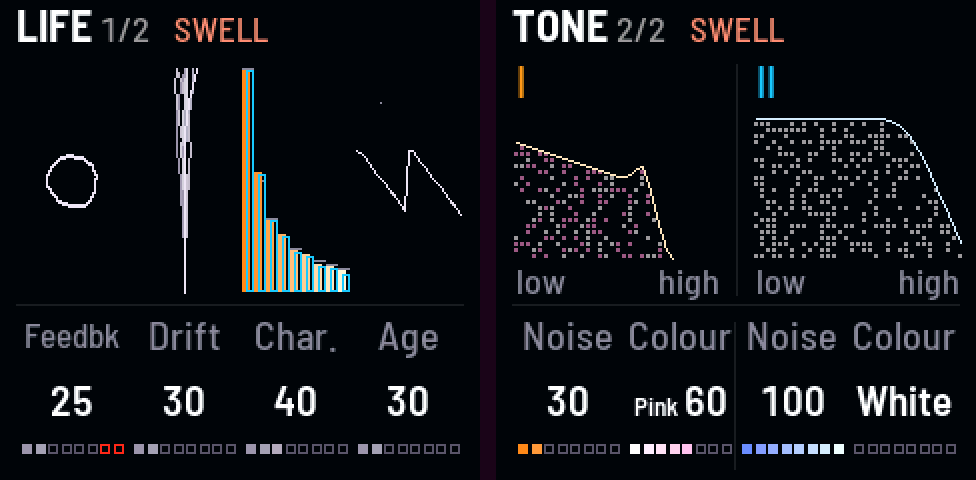
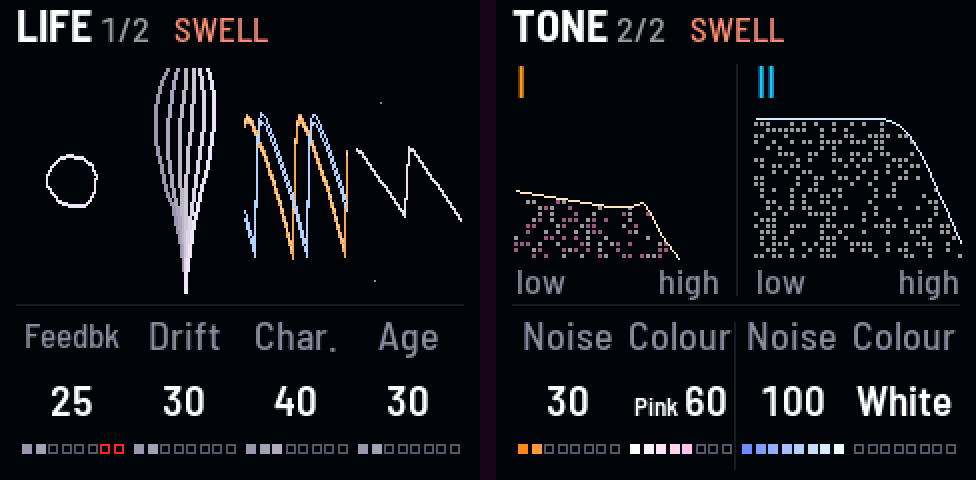
Life: Drift six thicker strands, Character ruler to hand, Age worn harder; Tone's noise as tall as it sounds
- Drift's flame: six 2 px strands, 4 px apart, swaying as one bundle (was nine 1 px strands)
- Character: each drone's wave, a crisp thin line at 0, a thick, soft, trembling stroke at 100 (drone I filled and
  glowing, drone II outlined in its ramp), in place of the harmonic bars
- Age: the worn saw rounds more, its wow drawn twice as far, dimming as it darkens
- Tone: the snow's height follows how loud the noise sounds (twice as tall a 10 dB), so 10 is a quarter up, not 58 %

diff --git a/firmware/src/app/look.c b/firmware/src/app/look.c
@@ -567,87 +567,118 @@ static void lk_life_fb(int32_t cx, int32_t cy)
     }
 }
 
-/* DRIFT: a flame, nine strands from one root, swaying unevenly, more towards the tip; as far as Drift lets it, its
- * motion from the clock (never a rhythm). At 0 one still line */
+/* DRIFT: a flame, six 2 px strands from one root, 4 px apart in the middle (the fan opening over Drift's first 15),
+ * swaying as one bundle, more towards the tip, as far as Drift lets it; its motion from the clock (never a rhythm).
+ * At 0 one still line */
 static void lk_life_drift(int32_t cx, int32_t top, int32_t bot)
 {
     const float d = (float)proj.par[P_DRIFT] * 0.01f, t = (float)plat_ms() * 0.001f;
+    const float fan = fm_minf(d * 6.7f, 1.0f) * (0.7f + 0.3f * d);
+    const int ns = d > 0.0f ? 6 : 1;
     int j, i;
-    for (j = 0; j < 9; j++) {
+    for (j = 0; j < ns; j++) {
+        const float o = ns > 1 ? (float)j - 2.5f : 0.0f;
+        const uint16_t c = lk_ramp(LK_G, ns > 1 ? (float)j / 5.0f : 1.0f);
         int32_t px = cx, py = bot;
-        for (i = 1; i <= 14; i++) {
-            const float h = (float)i / 14.0f;
-            const float sw = 0.6f * fm_sinf(t * (0.53f + 0.04f * (float)j) + 0.9f * (float)j + 4.0f * h) +
-                             0.4f * fm_sinf(t * (0.29f + 0.03f * (float)j) + 2.1f * (float)j + 6.5f * h);
-            const int32_t x = cx + (int32_t)(d * (sw * 24.0f * h * fm_sqrtf(h) + (float)(j - 4) * 1.6f * h));
+        for (i = 1; i <= 16; i++) {
+            const float h = (float)i / 16.0f;
+            const float sw = 0.6f * fm_sinf(t * 0.53f + 0.35f * (float)j + 4.0f * h) +   /* one bundle, a little */
+                             0.4f * fm_sinf(t * 0.29f + 0.6f * (float)j + 6.5f * h);       /* apart in phase */
+            const int32_t x = cx + (int32_t)(d * sw * 16.0f * h * fm_sqrtf(h) +
+                                             fan * o * (3.0f + 7.0f * fm_sinf(2.8f * h)) * h);
             const int32_t y = bot - (int32_t)((float)(bot - top) * h);
-            cv_line(px, py, x, y, lk_ramp(LK_G, (float)j / 8.0f));
+            cv_line(px, py, x, y, c);
+            cv_line(px + 1, py, x + 1, y, c);
             px = x;
             py = y;
         }
     }
 }
 
-/* CHARACTER: the sound's first nine harmonics, drone I's filled, drone II's outlined over them, each as the engine
- * makes them: a saw's 1/n, rolled off by Character's one-pole (its corner 8 kHz .. 500 Hz, at the drone's pitch)
- * and the evens lifted by its bend (asym); a short tick where a clean saw's reach */
-static void lk_life_char(int32_t x0, int32_t top, int32_t bot)
-{
-    const float chr = (float)proj.par[P_CHAR] * 0.01f, asym = CHR_ASYM * chr, fc = 8000.0f * fm_exp2f(-CHR_K * chr);
-    const float hh = (float)(bot - top);
-    int g, n;
-    for (n = 1; n <= 9; n++)                   /* the clean saw's */
-        cv_rect(x0 + 6 * (n - 1), bot - (int32_t)(hh / (float)n), 6, 1, LK_LABEL);
-    for (g = 0; g < DR_NGROUPS; g++) {
-        const float f0 = 8.1757989f * fm_exp2f(dr_pitch[g] / 12.0f);
-        for (n = 1; n <= 9; n++) {
-            const float q = (float)n * f0 / fc;
-            float a = 1.0f / (float)n;
-            int32_t h;
-            if (!(n & 1))
-                a += 0.6f * asym / (float)n;
-            a /= fm_sqrtf(1.0f + q * q);
-            h = (int32_t)(hh * fm_minf(a, 1.0f));
-            if (h < 1)
-                continue;
-            if (g == 0)
-                cv_rect(x0 + 6 * (n - 1), bot - h, 4, h, lk_ramp(0, (float)(n - 1) / 8.0f));
-            else
-                lk_box(x0 + 6 * (n - 1) + 2, bot - h, 4, h, LK_DRONE[1]);
-        }
-    }
-}
-
 /* AGE: drone I's saw worn as heard (Age's 20 s wear-in, never the knob): its corners round off as the highs go, six
- * strands bending with the wow and fraying with the flutter, hiss specks coming in. Sharp and single at 0 */
+ * strands bending with the wow and fraying with the flutter (both drawn larger than heard, to be seen), hiss specks
+ * coming in, dimming as it darkens. Sharp, bright and single at 0 */
 static void lk_life_age(int32_t x0, int32_t cy, int32_t top, int32_t bot)
 {
     float ph;
-    const float a = dr_age_now(&ph), k = 1.0f - 0.85f * a, tw = 6.2831853f * ph;
+    const float a = dr_age_now(&ph), k = 1.0f - 0.75f * a, tw = 6.2831853f * ph;
     const int ns = a > 0.01f ? 6 : 1;
     int j, i;
     for (j = 0; j < ns; j++) {
-        const float fl = a * (0.7f * fm_sinf(tw * 5.7f + 1.3f * (float)j) + 0.3f * fm_sinf(tw * 8.9f + 2.9f * (float)j));
+        const float fl = a * (0.7f * fm_sinf(tw * 5.7f + 1.3f * (float)j) +
+                              0.3f * fm_sinf(tw * 8.9f + 2.9f * (float)j));
+        const uint16_t c = lk_ramp(LK_G, (1.0f - 0.7f * a) * (ns > 1 ? 0.4f + 0.6f * (float)j / 5.0f : 1.0f));
         float r = 0.0f;
         int32_t px = 0, py = 0;
-        for (i = -10; i <= 26; i++) {          /* two cycles over 52 px, 10 points to settle the rounding */
+        for (i = -10; i <= 26; i++) {
             const float x = (float)i / 13.0f;
-            float u = x + a * (0.12f / 14.0f * (float)AGE_WOW) * fm_sinf(tw * 0.21f + 0.9f * x) + 0.03f * fl, s;
+            float u = x + a * (0.24f / 14.0f * (float)AGE_WOW) * fm_sinf(tw * 0.21f + 0.9f * x) + 0.06f * fl, sv;
             u -= (float)(int)(u + 8.0f) - 8.0f;
-            s = 1.0f - 2.0f * u;
-            r += (s - r) * k;
+            sv = 1.0f - 2.0f * u;
+            r += (sv - r) * k;
             if (i >= 0) {
-                const int32_t xx = x0 + 2 * i, yy = cy - (int32_t)(r * 18.0f + 2.0f * fl);
-                if (i)
-                    cv_line(px, py, xx, yy, lk_ramp(LK_G, ns > 1 ? (float)j / 5.0f : 1.0f));
+                const int32_t xx = x0 + 2 * i, yy = cy - (int32_t)(r * 20.0f + 3.0f * fl);
+                if (i) {
+                    cv_line(px, py, xx, yy, c);
+                    cv_line(px, py + 1, xx, yy + 1, c);
+                }
                 px = xx;
                 py = yy;
             }
         }
     }
-    for (i = 0; i < (int)(a * 24.0f); i++) {   /* hiss */
+    for (i = 0; i < (int)(a * 30.0f); i++) {   /* hiss */
         const uint32_t hv = lk_rnd((uint32_t)i * 0x9E3779B9u ^ ui.frame / SCOPE_EVERY * 0x85EBCA6Bu);
         cv_rect(x0 + (int32_t)(hv % 52u), top + (int32_t)((hv >> 8) % (uint32_t)(bot - top)), 1, 1, LK_LABEL);
+    }
+}
+
+/* Character's saw at x (cycles), bowed as its asym bends it (the DC out, as the engine's) */
+static float lk_chr_saw(float x, float chr)
+{
+    float u = x - fm_floorf(x), sv = 1.0f - 2.0f * u;
+    return sv + 1.4f * CHR_ASYM * chr * (0.6666667f - sv * sv);
+}
+
+/* CHARACTER: ruler to hand (Evan, 2026-11-02). Each drone's wave, two cycles running: a crisp thin line at 0; at 100
+ * drawn by hand, thick and soft, its corners round and the stroke trembling with the jitter. Drone I's stroke filled,
+ * glowing (its ramp's pale end at the core, amber at the edges); drone II's outlined, in its own ramp */
+static void lk_life_char(int32_t x0, int32_t cy, int32_t top, int32_t bot)
+{
+    const float chr = (float)proj.par[P_CHAR] * 0.01f, k = 1.0f - 0.8f * chr, t = (float)plat_ms() * 0.001f;
+    const float amp = (float)(bot - top) * 0.36f;
+    int g, i, j;
+    for (g = 0; g < DR_NGROUPS; g++) {
+        float r = 0.0f;
+        int32_t py = 0, pw = 2;
+        for (i = -14; i < 52; i++) {
+            const float x = (float)i / 26.0f + t * (0.3f + 0.1f * (float)g) + 0.37f * (float)g;
+            const uint32_t hv = lk_rnd((uint32_t)(i + 64) * 0x9E3779B9u ^ (uint32_t)g ^
+                                       ui.frame / SCOPE_EVERY * 0x85EBCA6Bu);
+            const float tr = chr * 1.5f * ((float)(hv & 255u) / 127.5f - 1.0f);
+            const int32_t w = 2 + (int32_t)(chr * (6.0f + (float)((hv >> 8) & 1u)));   /* 2 px at 0, 8-9 at 100 */
+            r += (lk_chr_saw(x, chr) - r) * k;
+            if (i >= 0) {
+                const int32_t xx = x0 + i, yy = cy - (int32_t)(r * amp + tr);
+                if (g == 0) {
+                    for (j = 0; j < w; j++) {  /* the core pale, the edges amber */
+                        const float e = fm_fabsf((float)j - 0.5f * (float)(w - 1)) / (0.5f * (float)w);
+                        if (i)
+                            cv_line(xx - 1, py - pw / 2 + j * pw / w, xx, yy - w / 2 + j, lk_ramp(0, 1.0f - e));
+                    }
+                } else if (i) {
+                    if (w < 4) {               /* thin: one line */
+                        cv_line(xx - 1, py, xx, yy, lk_ramp(1, 0.75f));
+                        cv_line(xx - 1, py + 1, xx, yy + 1, lk_ramp(1, 0.75f));
+                    } else {                   /* thick: its stroke's two edges */
+                        cv_line(xx - 1, py - pw / 2, xx, yy - w / 2, lk_ramp(1, 0.6f));
+                        cv_line(xx - 1, py + pw / 2, xx, yy + w / 2, lk_ramp(1, 0.6f));
+                    }
+                }
+                py = yy;
+                pw = w;
+            }
+        }
     }
 }
 
@@ -656,7 +687,7 @@ static void lk_pic_life(void)
     const int32_t top = 6, bot = LK_PIC_H - 6, cy = (top + bot) / 2;
     lk_life_fb(8 + 28, cy);
     lk_life_drift(64 + 28, top, bot);
-    lk_life_char(120 + 1, top, bot);
+    lk_life_char(120 + 2, cy, top, bot);
     lk_life_age(176 + 2, cy, top, bot);
 }
 
@@ -670,8 +701,9 @@ static uint32_t lk_rnd(uint32_t x)            /* a well-mixed hash (the snow, th
     return x ^ x >> 16;
 }
 
-/* each drone's noise as TV snow, low to high: as high as its level (the top: noise at 100, as loud as the
- * oscillators), flat at White and falling 3 dB an octave at Pink (Colour blends them), then rolled off by the drone's
+/* each drone's noise as TV snow, low to high: as tall as it sounds loud (Evan, 2026-11-02: twice as tall for each
+ * 10 dB, so 10, 20 dB under, is a quarter up; the top: noise at 100, as loud as the oscillators), its low end there,
+ * then flat at White and falling 3 dB an octave at Pink (Colour blends them) over 36 dB, rolled off by the drone's
  * filter as heard; its edge drawn bright. Square specks, white or pink (pink as often as Colour says), at 60 %; each
  * changes about once in seven pictures, at its own time, so it shimmers without strobing (no buffer: from a hash) */
 static void lk_pic_tone(void)
@@ -684,13 +716,13 @@ static void lk_pic_tone(void)
     for (g = 0; g < DR_NGROUPS; g++) {
         const int32_t x0 = g ? 128 : 8;
         const int nv = gpar(g, GP_NOISE), cv = gpar(g, GP_NCOLOR);
-        const float slope = -3.0f * (float)cv * 0.01f, share = 6.0206f * fm_log2f(fm_maxf((float)nv * 0.01f, 1e-3f));
+                const float slope = -3.0f * (float)cv * 0.01f, lv = fm_powf((float)nv * 0.01f, 0.60206f);
         int32_t px = 0, py = 0;
         if (nv > 0)
             for (c = 0; c < 35; c++) {         /* 35 columns of 3 px */
                 const float f = 100.0f * (float)c / 34.0f;
-                const float db = share + slope * (f * 0.0981378f - 2.3219281f) + filt_db(g, dr_cut[g], f);
-                const int32_t edge = base - (int32_t)((float)hh * fm_clampf((db + 36.0f) / 36.0f, 0.0f, 1.0f));
+                const float db = slope * f * 0.0981378f + filt_db(g, dr_cut[g], f);   /* 0 at the low end */
+                const int32_t edge = base - (int32_t)((float)hh * lv * fm_clampf((db + 36.0f) / 36.0f, 0.0f, 1.0f));
                 const int32_t x = x0 + 1 + 3 * c;
                 int32_t y;
                 for (y = base - 2; y >= edge; y -= 3) {
